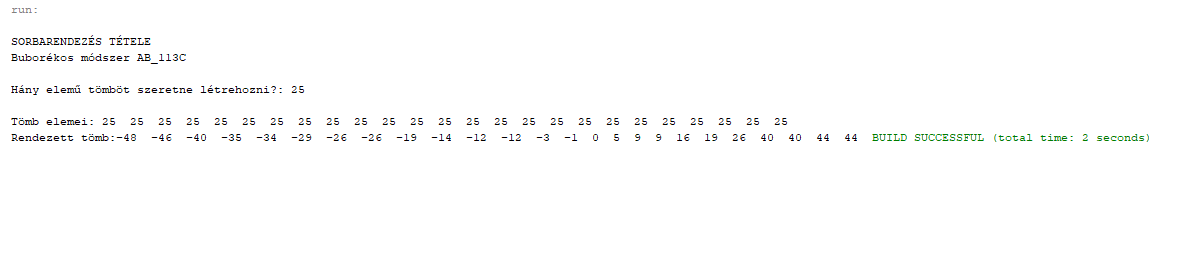
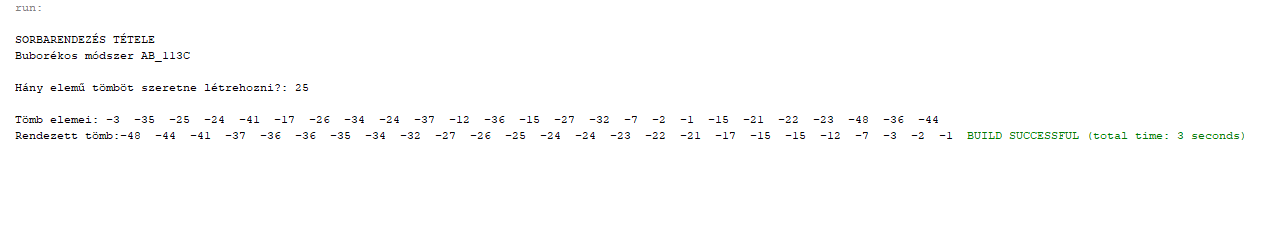
buborékos, negatívval

diff --git a/Tetelgyakorlas1201.java b/Tetelgyakorlas1201.java
@@ -23,11 +23,11 @@ public class Tetelgyakorlas1201 {
         int szamok[] = new int [elemszam];
         
         for (int i = 0; i < elemszam; i++) {
-            szamok[i] = (int) (Math.random()*100)-50;
+            szamok[i] = (int) (Math.random()*50)-50;
         }
         System.out.print("\nTömb elemei: ");
         for (int i = 0; i < elemszam; i++) {
-            System.out.print(elemszam + "  ");
+            System.out.print(szamok[i] + "  ");
         }
         
         // BUBORÉKOS RENDEZÉS
